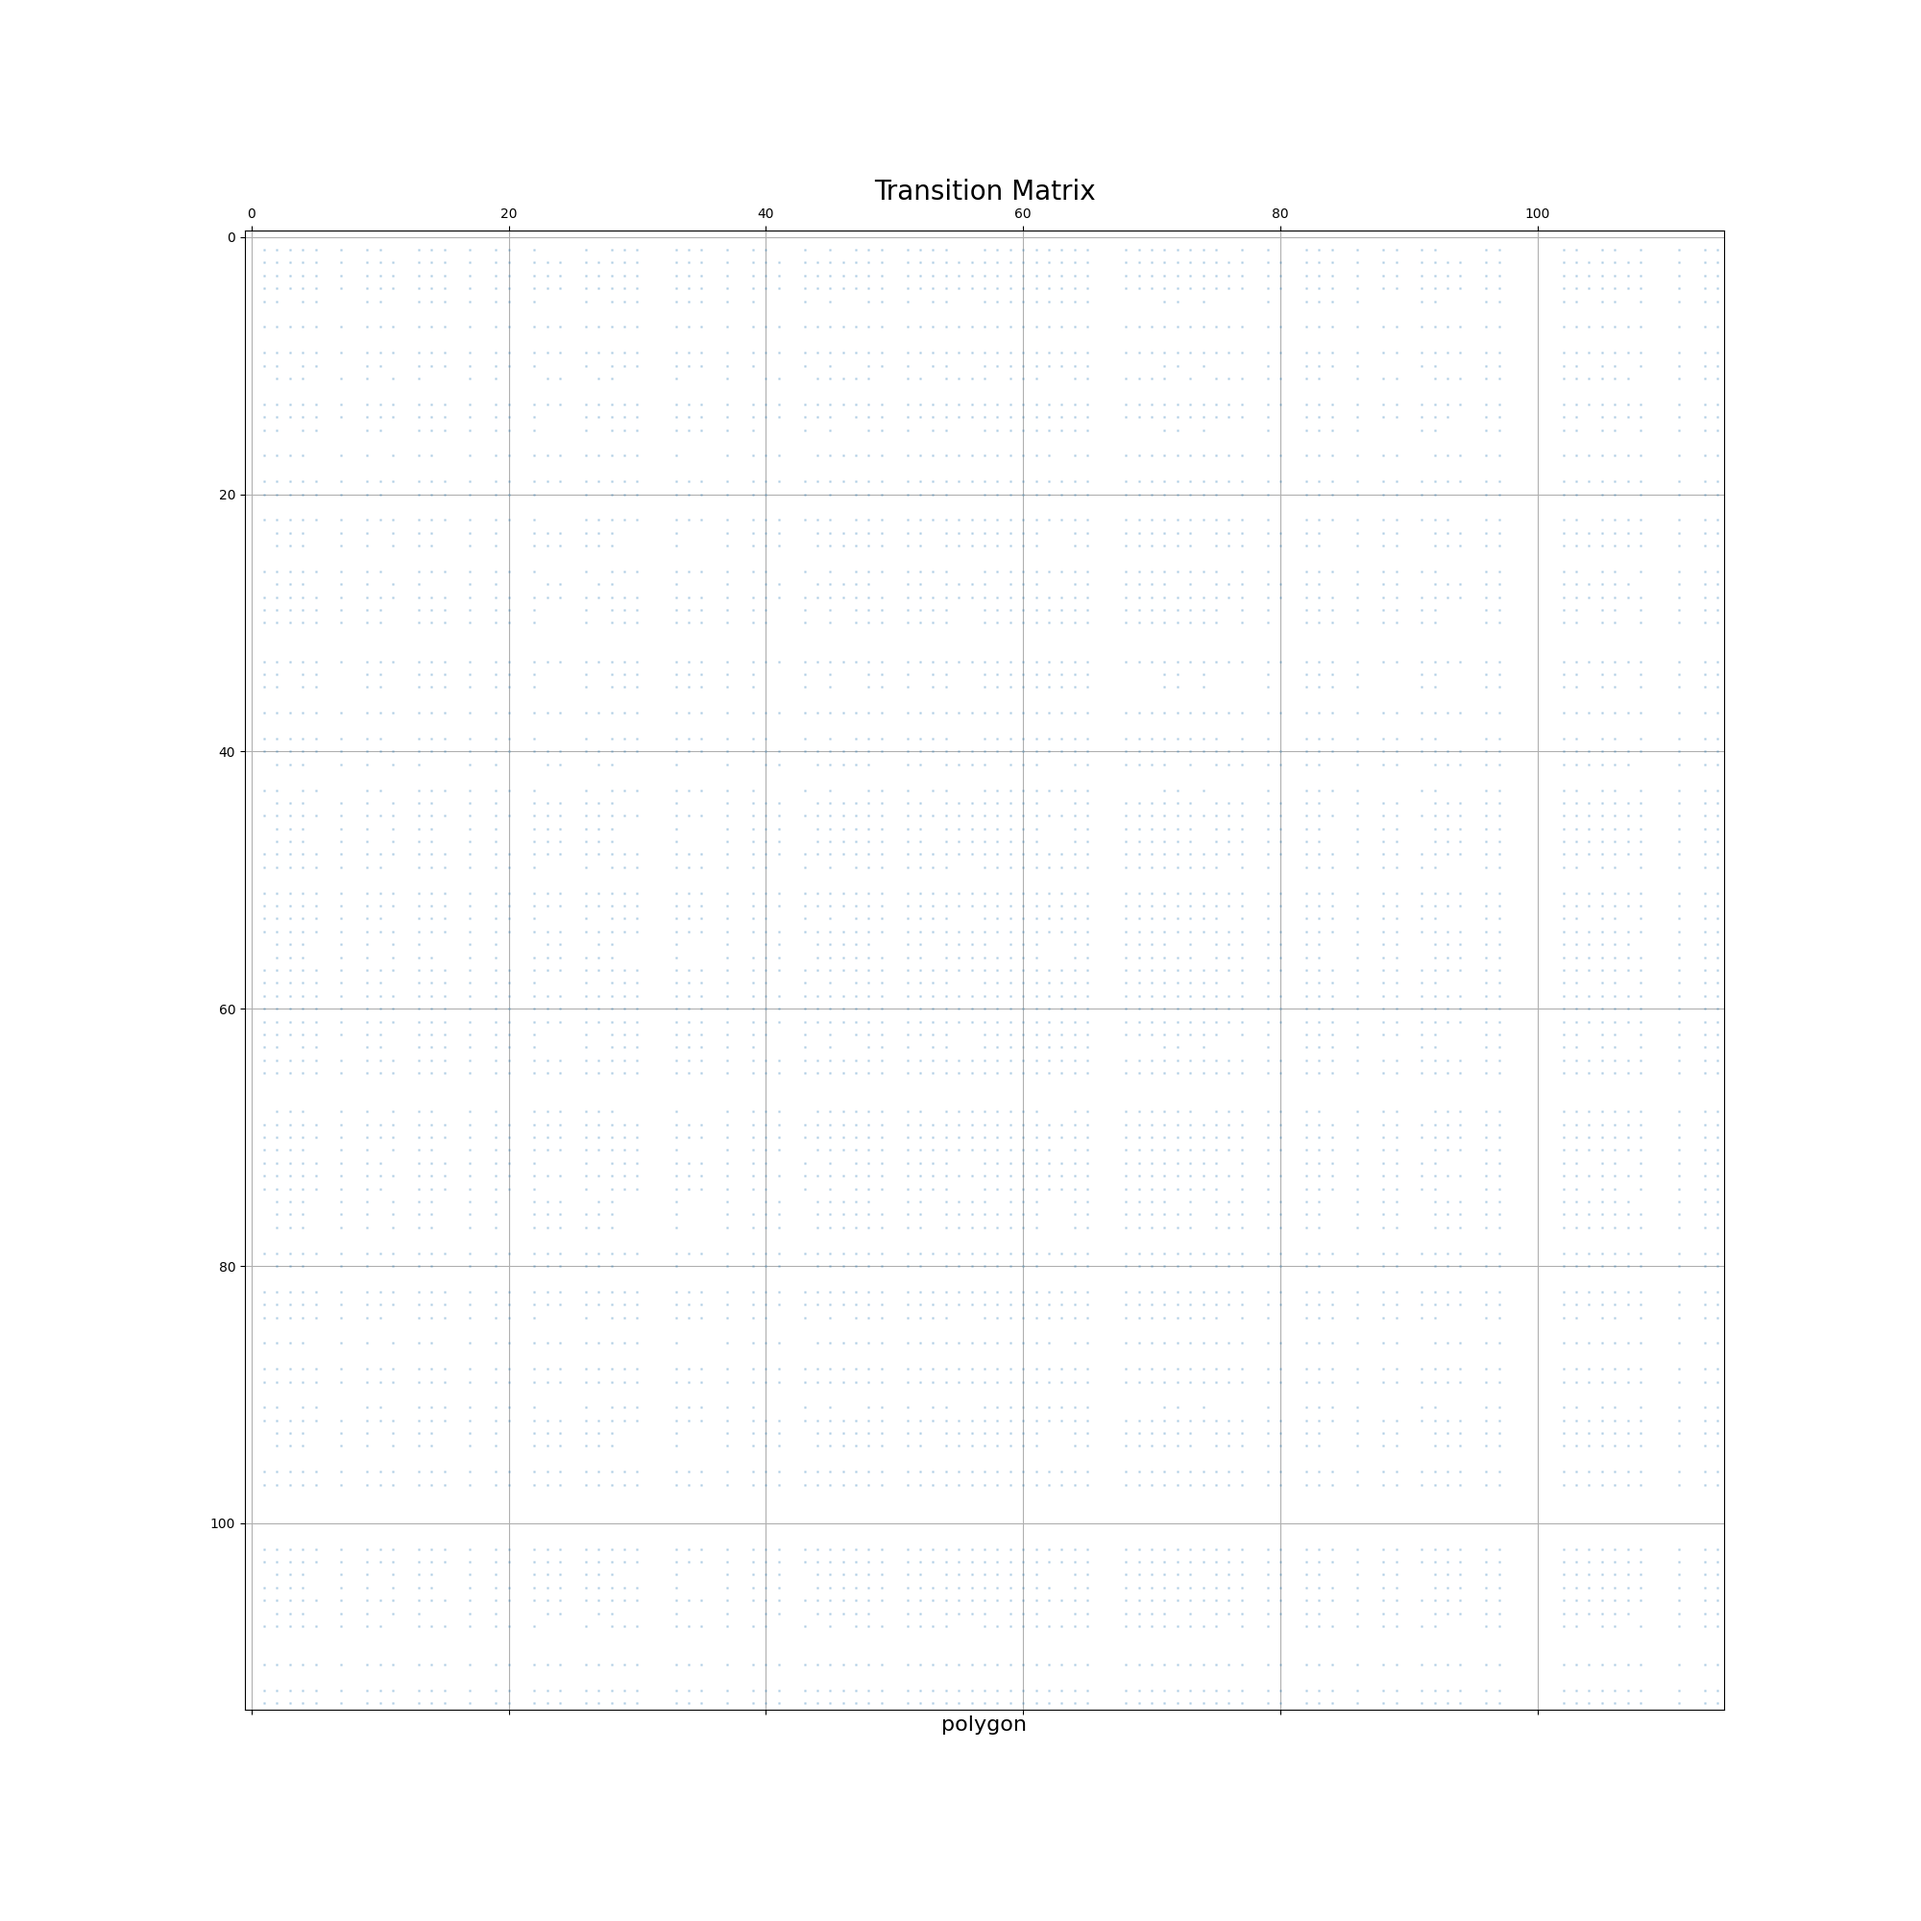
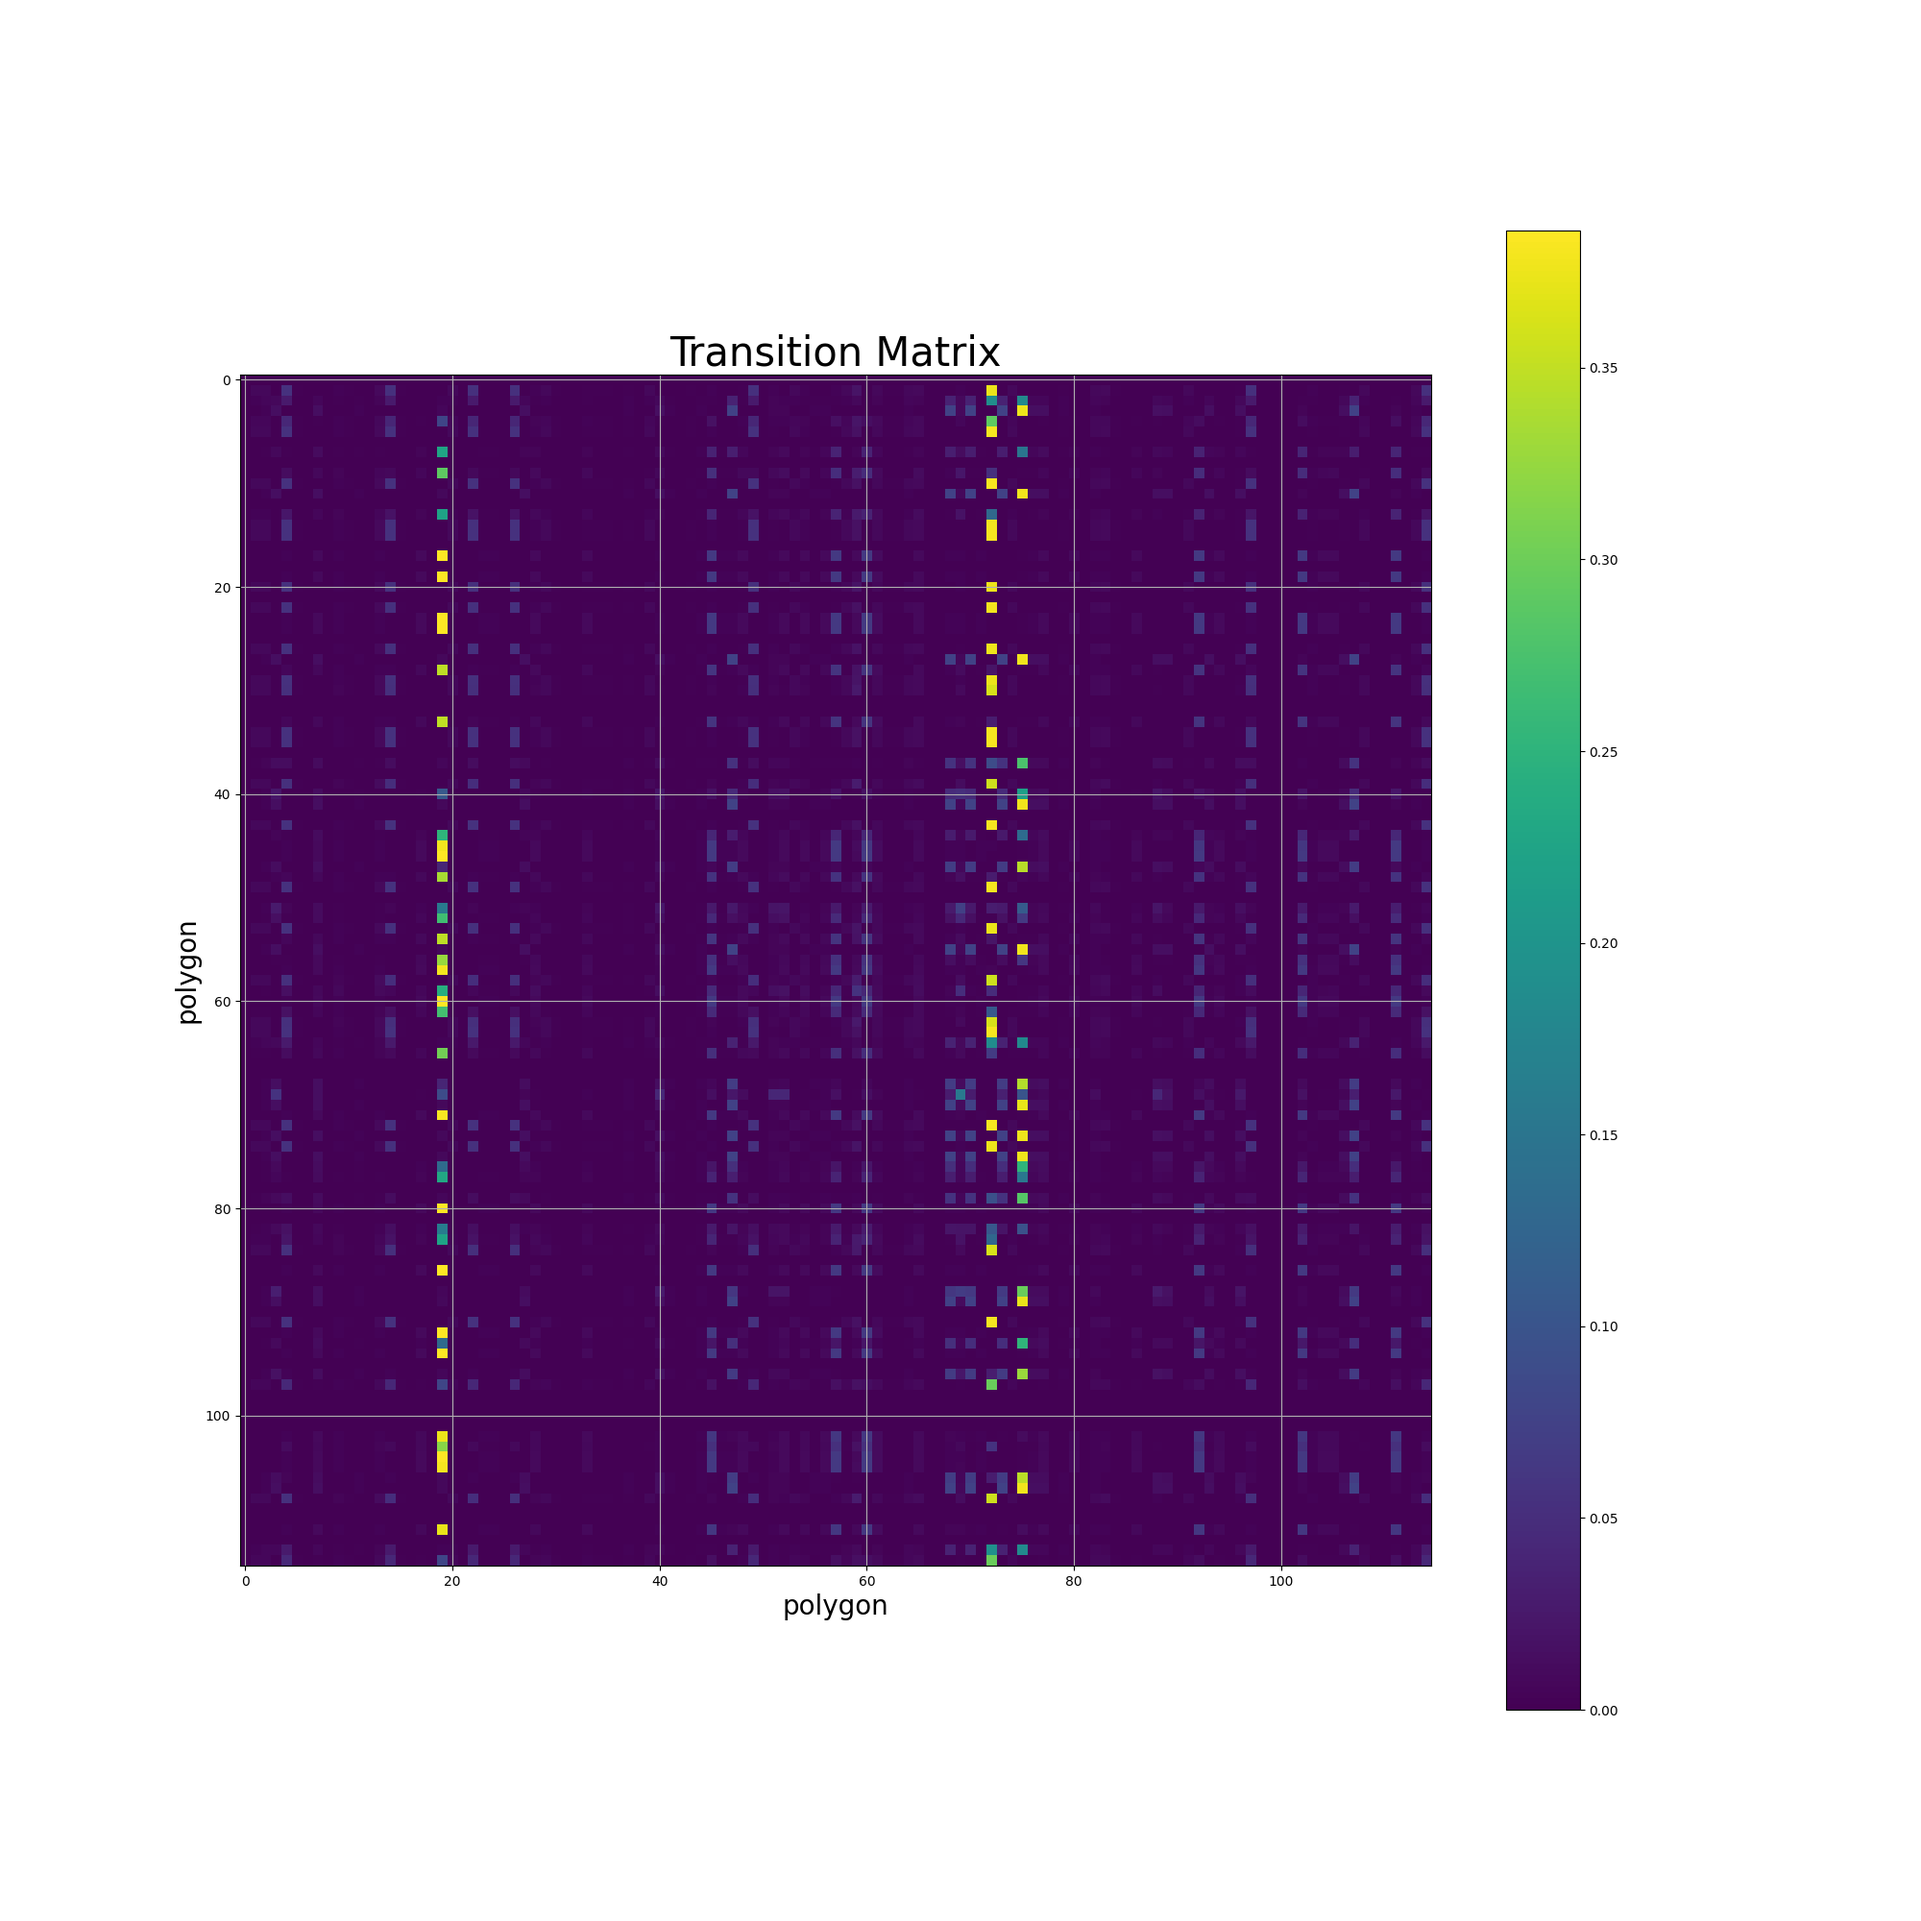
update

diff --git a/cdr_trajectories/TM.py b/cdr_trajectories/TM.py
@@ -6,45 +6,46 @@ Transition Matrix
 import pyspark.sql.functions as F
 from pyspark.sql import Window
 from pyspark.sql.types import ArrayType, FloatType
-from cdr_trajectories.udfs import transition_matrix_updates
+from cdr_trajectories.udfs import matrix_updates
 
 class TM:
 
     def __init__(self, df):
         self.df = df
 
-    def states_vector(self):
+    def tm_states_vector(self):
         window = Window.partitionBy(['user_id', F.to_date('timestamp')]).orderBy('timestamp')
         self.df = self.df.withColumn('states_lag', F.lag('states').over(window)).dropna()
         return self.df
 
-    def states_update(self):
-        tm_updates_udf = F.udf(transition_matrix_updates, ArrayType(ArrayType(FloatType())))
-        self.df = self.df.withColumn('TM_updates', tm_updates_udf('states_lag', 'states'))
+    def tm_states_update(self):
+        updates_udf = F.udf(matrix_updates, ArrayType(ArrayType(FloatType())))
+        self.df = self.df.withColumn('updates', updates_udf('states_lag', 'states'))
         return self.df
 
     def states_collect(self):
-        self.df = self.df.select(['TM_updates'])\
-                    .withColumn('TM_updates', F.explode('TM_updates'))\
-                    .withColumn('y', F.col('TM_updates').getItem(0))\
-                    .withColumn('x', F.col('TM_updates').getItem(1))\
-                    .withColumn('val', F.col('TM_updates').getItem(2))\
-                    .drop('TM_updates')\
-                    .groupBy(['y', 'x']).agg(F.sum('val').alias('TM_updates'))
+        self.df = self.df.select(['updates'])\
+                    .withColumn('updates', F.explode('updates'))\
+                    .withColumn('y', F.col('updates').getItem(0))\
+                    .withColumn('x', F.col('updates').getItem(1))\
+                    .withColumn('val', F.col('updates').getItem(2))\
+                    .drop('updates')\
+                    .groupBy(['y', 'x']).agg(F.sum('val').alias('updates'))
         return self.df
 
     def states_normalize(self):
-        window = Window.partitionBy(F.col('x'))
-        self.df = self.df.withColumn('TM_updates', F.col('TM_updates')/F.sum(F.col('TM_updates')).over(window))\
-                         #.filter(F.col('TM_updates') >= 0.1)
+        window = Window.partitionBy(F.col('y'))
+        self.df = self.df.withColumn('updates', F.col('updates')/F.sum(F.col('updates')).over(window))
         return self.df
 
     def make_tm(self):
-        self.states_vector()
-        self.states_update()
+        self.tm_states_vector()
+        self.tm_states_update()
         self.states_collect()
         self.states_normalize()
         return self.df
+
+    
 
     
 

diff --git a/cdr_trajectories/OD.py b/cdr_trajectories/OD.py
@@ -1,4 +1,58 @@
 """
 Origin-Destination Matrix
-=================
+=========================
 """
+
+import pyspark.sql.functions as F
+from pyspark.sql import Window
+from pyspark.sql.types import ArrayType, FloatType, LongType
+from cdr_trajectories.udfs import matrix_updates
+from cdr_trajectories.constants import OD_time_frame
+
+class OD:
+
+    def __init__(self, df):
+        self.df = df
+
+    def od_states_vector(self):
+        window = Window.partitionBy(['user_id', F.to_date('timestamp')])\
+                       .orderBy('timestamp_long').rangeBetween(-OD_time_frame, OD_time_frame)
+        self.df = self.df.withColumn('timestamp_long', F.col('timestamp').cast(LongType()))\
+                         .withColumn('first_idx', F.first('voronoi_id').over(window))\
+                         .withColumn('first_ts', F.first('timestamp').over(window))\
+                         .withColumn('last_idx', F.last('voronoi_id').over(window))\
+                         .withColumn('last_ts', F.last('timestamp').over(window))\
+                         .withColumn('last_states', F.last('states').over(window))
+        return self.df
+
+    def od_states_update(self):
+        updates_udf = F.udf(matrix_updates, ArrayType(ArrayType(FloatType())))
+        self.df = self.df.withColumn('updates', updates_udf('states', 'last_states'))
+        return self.df
+
+    def states_collect(self):
+        self.df = self.df.select(['updates'])\
+                    .withColumn('updates', F.explode('updates'))\
+                    .withColumn('y', F.col('updates').getItem(0))\
+                    .withColumn('x', F.col('updates').getItem(1))\
+                    .withColumn('val', F.col('updates').getItem(2))\
+                    .drop('updates')\
+                    .groupBy(['y', 'x']).agg(F.sum('val').alias('updates'))
+        return self.df
+
+    def states_normalize(self):
+        window = Window.partitionBy(F.col('y'))
+        self.df = self.df.withColumn('updates', F.col('updates')/F.sum(F.col('updates')).over(window))
+        return self.df
+
+    def make_od(self):
+        self.od_states_vector()
+        self.od_states_update()
+        self.states_collect()
+        self.states_normalize()
+        return self.df
+
+    def make_od_dataset(self):
+        self.od_states_vector()
+        self.od_states_update()
+        return self.df

diff --git a/cdr_trajectories/ring.py b/cdr_trajectories/ring.py
@@ -70,14 +70,14 @@ class ring_adjNum:
 
     def probability(self):    
         self.df = self.df.withColumn('voronoi_id', F.split(self.df['1st'], ' ').getItem(0))\
-                         .withColumn('selfProp', F.lit(ring_fraction[0]))\
-                         .withColumn('1st_adjNum', F.split(self.df['1st'], ' ').getItem(1).cast(IntegerType()))\
-                         .withColumn('1st_adjProp', ring_fraction[1]/F.col('1st_adjNum'))\
-                         .withColumn('2nd_adjNum', F.split(self.df['2nd'], ' ').getItem(1).cast(IntegerType()))\
-                         .withColumn('2nd_adjProp', ring_fraction[2]/F.col('2nd_adjNum'))\
-                         .withColumn('3rd_adjNum', F.split(self.df['3rd'], ' ').getItem(1).cast(IntegerType()))\
-                         .withColumn('3rd_adjProp', ring_fraction[3]/F.col('3rd_adjNum'))\
-                         .drop('1st', '2nd', '3rd')
+                    .withColumn('selfProp', F.lit(ring_fraction[0]))\
+                    .withColumn('1st_adjNum', F.split(self.df['1st'], ' ').getItem(1).cast(IntegerType()))\
+                    .withColumn('1st_adjProp', ring_fraction[1]/F.col('1st_adjNum'))\
+                    .withColumn('2nd_adjNum', F.split(self.df['2nd'], ' ').getItem(1).cast(IntegerType()))\
+                    .withColumn('2nd_adjProp', ring_fraction[2]/F.col('2nd_adjNum'))\
+                    .withColumn('3rd_adjNum', F.split(self.df['3rd'], ' ').getItem(1).cast(IntegerType()))\
+                    .withColumn('3rd_adjProp', ring_fraction[3]/F.col('3rd_adjNum'))\
+                    .drop('1st', '2nd', '3rd')
         return self.df
 
     def get_adjNum(self):

diff --git a/cdr_trajectories/main.py b/cdr_trajectories/main.py
@@ -8,6 +8,7 @@ from cdr_trajectories.mpn import mpn_data
 from cdr_trajectories.voronoi import voronoi_data
 from cdr_trajectories.ring import ring_data
 from cdr_trajectories.TM import TM
+from cdr_trajectories.OD import OD
 from cdr_trajectories.time_inhomo import time_inhomo
 from cdr_trajectories.udfs import prepare_for_plot, plot_dense, plot_sparse
 
@@ -21,13 +22,20 @@ cdr_trajectories = trajectories.join(ring_data, ['voronoi_id'], how = 'inner')\
 
 
 tm = TM(cdr_trajectories).make_tm()
+#tm.toPandas().to_csv('output.csv')
 print("Transition Matrix: Whole Time")
-plot_dense(prepare_for_plot(tm, 'TM_updates'), 'TM.png', 'Transition Matrix')
+plot_dense(prepare_for_plot(tm, 'updates'), 'TM.png', 'Transition Matrix')
+
+od = OD(cdr_trajectories).make_od()
+#od_dataset = OD(cdr_trajectories).make_od_dataset()
+#od_dataset.toPandas().to_csv('od_dataset.csv')
+print("Origin-Destination Matrix: Whole Time")
+plot_dense(prepare_for_plot(od, 'updates'), 'OD.png', 'Origin-Destination Matrix')
 
 #Paremeters are subjected to change
-tm_time = TM(time_inhomo(cdr_trajectories, 6, 8).make_tm_time()).make_tm()
-print("Transition Matrix: From 6am to 8am")
-plot_dense(prepare_for_plot(tm_time, 'TM_updates'), 'TM (specific).png', 'Transition Matrix (6am to 8am)')
+#tm_time = TM_OD(time_inhomo(cdr_trajectories, 6, 8).make_tm_time()).make_tm()
+#print("Transition Matrix: From 6am to 8am")
+#plot_dense(prepare_for_plot(tm_time, 'TM_updates'), 'TM (specific).png', 'Transition Matrix (6am to 8am)')
 
 
 

diff --git a/cdr_trajectories/udfs.py b/cdr_trajectories/udfs.py
@@ -3,7 +3,7 @@ import numpy as np
 import scipy.sparse as sparse
 import matplotlib.pyplot as plt
 
-def transition_matrix_updates(states1, states2):
+def matrix_updates(states1, states2):
     update = [[float(el1[0]), float(el2[0]), el1[1]*el2[1]]
              for el1 in states1 for el2 in states2]
     return update

diff --git a/cdr_trajectories/constants.py b/cdr_trajectories/constants.py
@@ -13,3 +13,5 @@ spark = SparkSession.builder\
 
 
 ring_fraction = [0.37, 0.37, 0.15, 0.06, 0.05]
+
+OD_time_frame = 2*60*60

diff --git a/cdr_trajectories/time_inhomo.py b/cdr_trajectories/time_inhomo.py
@@ -1,6 +1,6 @@
 """
 Time Inhomogeneous Transition Matrix
-=================
+====================================
 """
 
 
